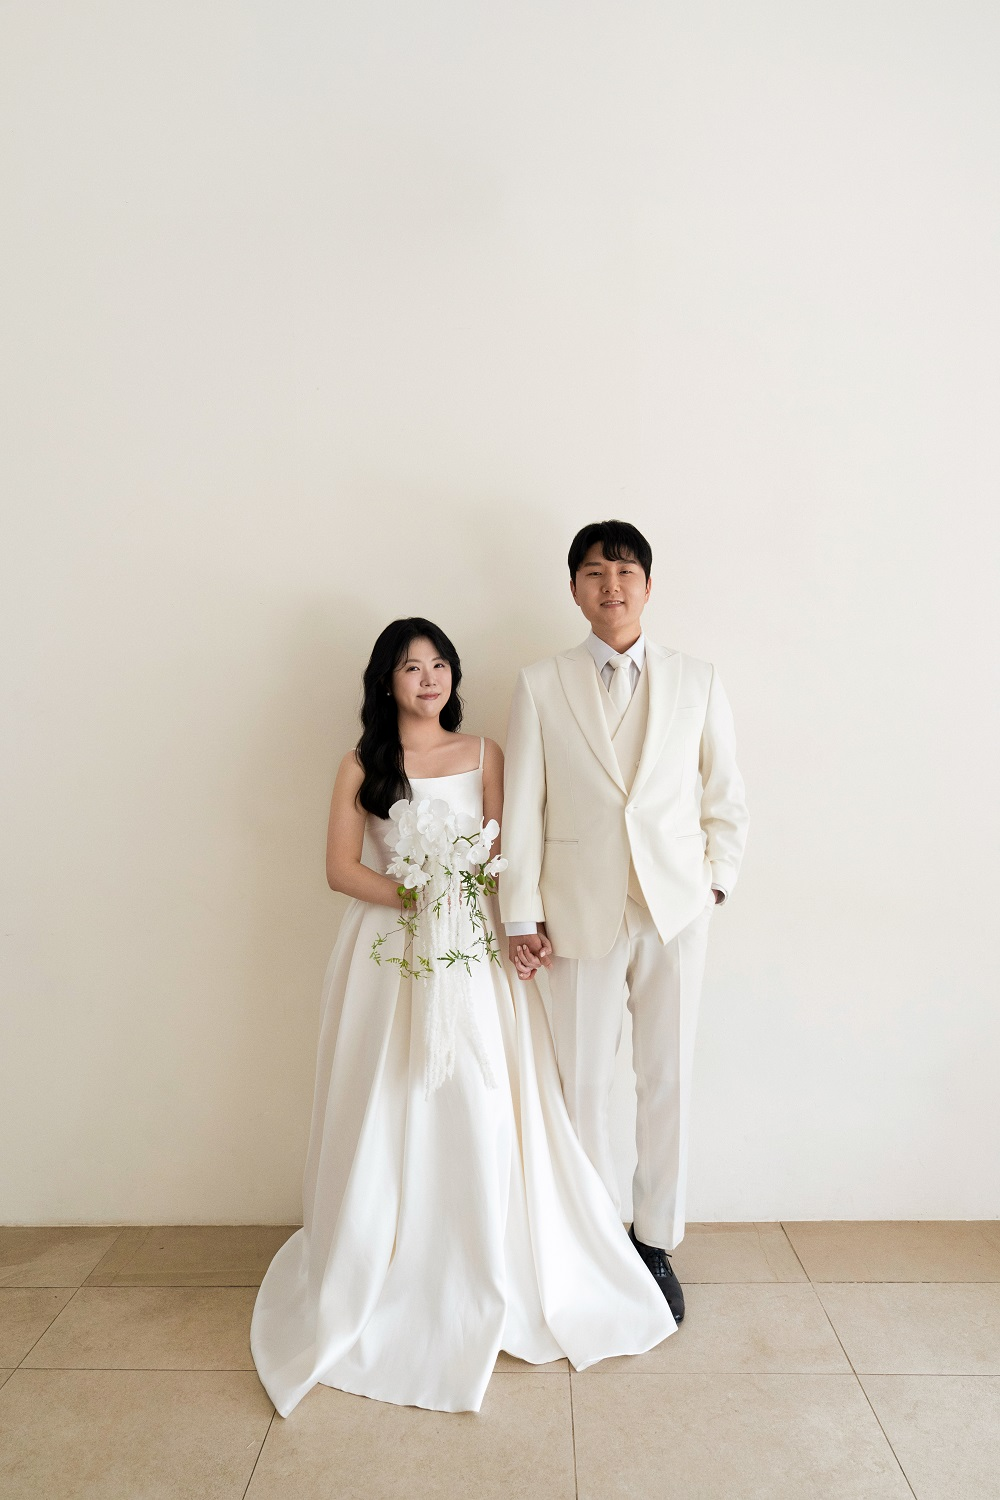
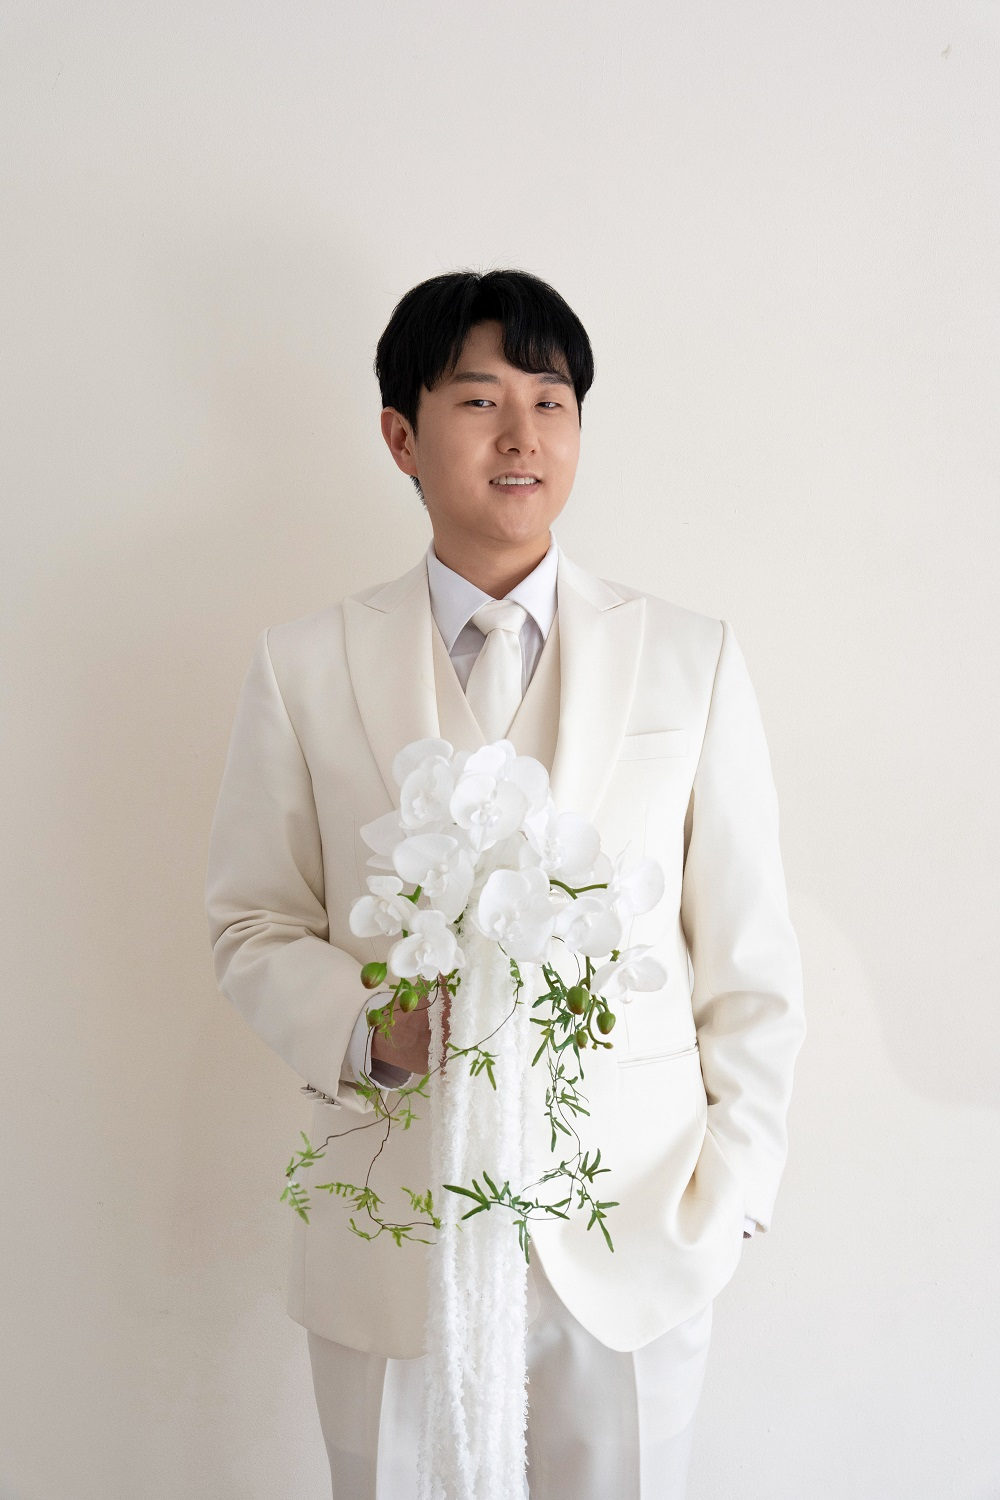
20260804_재배치

diff --git a/index.html b/index.html
@@ -161,52 +161,41 @@
         <section>
             <h2>GALLERY</h2>
             
-            <!-- 💡 [상단] 테트리스 영역 (구조 수정됨) -->
+            <!-- [상단] 테트리스 영역 -->
             <div class="gallery">
-                <!-- 메인 큰 사진 (가로2 x 세로2) -->
-                <div class="size-4x"><img src="./images/photo1.jpg" onerror="this.src='https://via.placeholder.com/480x480?text=Photo+1+(4x)'"></div>
+                <!-- photo1: 메인 큰 사진 (전체 폭, 2x2 비율) -->
+                <div class="size-4x"><img src="./images/photo1.jpg" onerror="this.src='https://via.placeholder.com/480x480?text=Photo+1'"></div>
                 
-                <!-- 💡 요청하신 photo2, photo3 (각각 가로 2칸 x 세로 4칸의 2x4 크기 배치) -->
-                <div class="size-4x" style="grid-row: span 4;"><img src="./images/photo2.jpg" onerror="this.src='https://via.placeholder.com/480x720?text=Photo+2+(2x4)'"></div>
-                <div class="size-4x" style="grid-row: span 4;"><img src="./images/photo3.jpg" onerror="this.src='https://via.placeholder.com/480x720?text=Photo+3+(2x4)'"></div>
-                
-                <!-- 기존 photo4 (1칸) -->
-                <div><img src="./images/photo4.jpg" onerror="this.src='https://via.placeholder.com/240x180?text=Photo+4'"></div>
-                
-                <!-- 신규 추가된 사진 좌우 2장 (photo19, photo20) -->
-                <div><img src="./images/photo19.jpg" onerror="this.src='https://via.placeholder.com/240x180?text=Photo+19'"></div>
-                <div><img src="./images/photo20.jpg" onerror="this.src='https://via.placeholder.com/240x180?text=Photo+20'"></div>
+                <!-- 💡 photo2, photo3: 2x4 비율로 좌우 나란히 배치 (세로로 아주 긴 사진 2장) -->
+                <div style="grid-column: span 1; grid-row: span 4;"><img src="./images/photo2.jpg" onerror="this.src='https://via.placeholder.com/240x720?text=Photo+2+(2x4)'"></div>
+                <div style="grid-column: span 1; grid-row: span 4;"><img src="./images/photo3.jpg" onerror="this.src='https://via.placeholder.com/240x720?text=Photo+3+(2x4)'"></div>
             </div>
             
-            <!-- [중단] 1:1 비율 사진 4개 (1번째 줄) -->
+            <!-- [중단] 1:1 비율 사진 4개씩 3줄 (photo4 ~ photo15) -->
             <div class="gallery row-of-4-standalone">
+                <div><img src="./images/photo4.jpg" onerror="this.src='https://via.placeholder.com/120?text=P4'"></div>
+                <div><img src="./images/photo5.jpg" onerror="this.src='https://via.placeholder.com/120?text=P5'"></div>
+                <div><img src="./images/photo6.jpg" onerror="this.src='https://via.placeholder.com/120?text=P6'"></div>
                 <div><img src="./images/photo7.jpg" onerror="this.src='https://via.placeholder.com/120?text=P7'"></div>
+            </div>
+            <div class="gallery row-of-4-standalone">
                 <div><img src="./images/photo8.jpg" onerror="this.src='https://via.placeholder.com/120?text=P8'"></div>
                 <div><img src="./images/photo9.jpg" onerror="this.src='https://via.placeholder.com/120?text=P9'"></div>
                 <div><img src="./images/photo10.jpg" onerror="this.src='https://via.placeholder.com/120?text=P10'"></div>
-            </div>
-
-            <!-- [중단] 1:1 비율 사진 4개 (2번째 줄) -->
-            <div class="gallery row-of-4-standalone">
                 <div><img src="./images/photo11.jpg" onerror="this.src='https://via.placeholder.com/120?text=P11'"></div>
+            </div>
+            <div class="gallery row-of-4-standalone">
                 <div><img src="./images/photo12.jpg" onerror="this.src='https://via.placeholder.com/120?text=P12'"></div>
                 <div><img src="./images/photo13.jpg" onerror="this.src='https://via.placeholder.com/120?text=P13'"></div>
                 <div><img src="./images/photo14.jpg" onerror="this.src='https://via.placeholder.com/120?text=P14'"></div>
-            </div>
-
-            <!-- [중단] 1:1 비율 사진 4개 (3번째 줄) -->
-            <div class="gallery row-of-4-standalone">
                 <div><img src="./images/photo15.jpg" onerror="this.src='https://via.placeholder.com/120?text=P15'"></div>
-                <div><img src="./images/photo16.jpg" onerror="this.src='https://via.placeholder.com/120?text=P16'"></div>
-                <div><img src="./images/photo17.jpg" onerror="this.src='https://via.placeholder.com/120?text=P17'"></div>
-                <div><img src="./images/photo18.jpg" onerror="this.src='https://via.placeholder.com/120?text=P18'"></div>
             </div>
 
-            <!-- [하단] 테트리스 영역 -->
+            <!-- [하단] 테트리스 영역 (photo16 ~ photo18) -->
             <div class="gallery">
-                <div class="size-2x-wide"><img src="./images/photo_wide.jpg" onerror="this.src='https://via.placeholder.com/480x180?text=Wide+Photo'"></div>
-                <div><img src="./images/photo5.jpg" onerror="this.src='https://via.placeholder.com/240x180?text=Photo+5'"></div>
-                <div><img src="./images/photo6.jpg" onerror="this.src='https://via.placeholder.com/240x180?text=Photo+6'"></div>
+                <div class="size-2x-wide"><img src="./images/photo16.jpg" onerror="this.src='https://via.placeholder.com/480x180?text=Photo+16+(Wide)'"></div>
+                <div><img src="./images/photo17.jpg" onerror="this.src='https://via.placeholder.com/240x180?text=Photo+17'"></div>
+                <div><img src="./images/photo18.jpg" onerror="this.src='https://via.placeholder.com/240x180?text=Photo+18'"></div>
             </div>
             
         </section>
